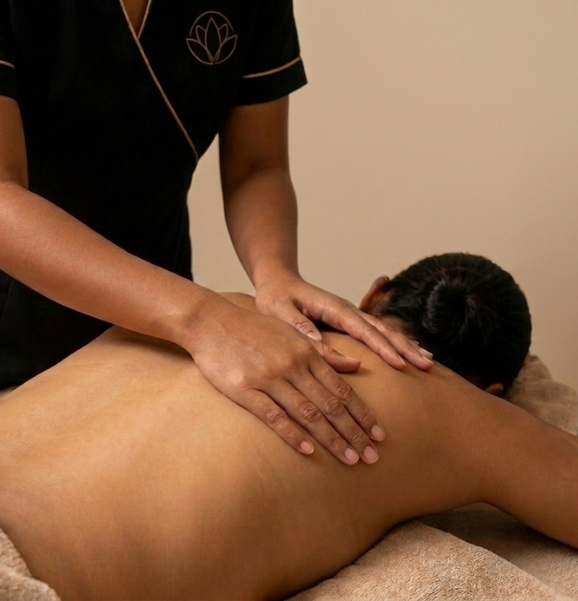
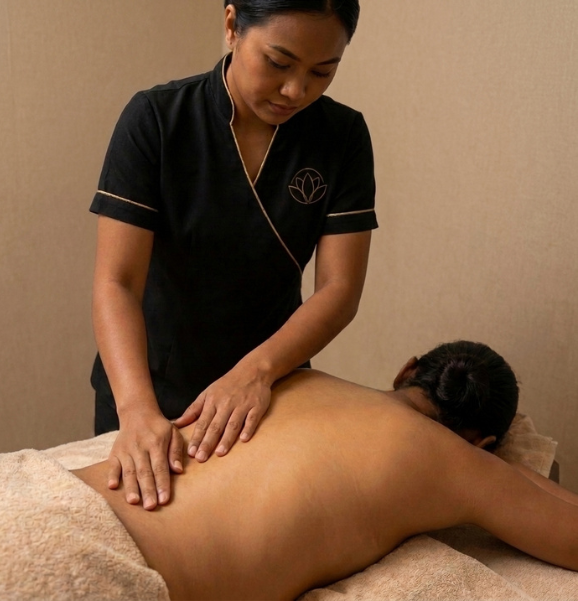
update

diff --git a/public/css/style.css b/public/css/style.css
@@ -2145,6 +2145,41 @@ svg.icon[viewBox="0 0 25 26"] > *,
   background: url(../images/shape/section-shape-bottom.png) no-repeat center bottom;
 }
 
+/* The torn-paper artwork occupies roughly 40px of the section's apparent
+   whitespace. Preserve each section's intended spacing rhythm on desktop by
+   adding that visual safe area to decorated panels. */
+@media (min-width: 768px) {
+  .section__decoration-top.pt-100,
+  .section__decoration-top > .pt-100 {
+    padding-top: 140px !important;
+  }
+
+  .section__decoration-bottom.pb-100,
+  .section__decoration-bottom > .pb-100 {
+    padding-bottom: 140px !important;
+  }
+
+  .section__decoration-top.pt-130,
+  .section__decoration-top > .pt-130 {
+    padding-top: 170px !important;
+  }
+
+  .section__decoration-bottom.pb-130,
+  .section__decoration-bottom > .pb-130 {
+    padding-bottom: 170px !important;
+  }
+
+  .section__decoration-top.pt-170,
+  .section__decoration-top > .pt-170 {
+    padding-top: 210px !important;
+  }
+
+  .section__decoration-bottom.pb-170,
+  .section__decoration-bottom > .pb-170 {
+    padding-bottom: 210px !important;
+  }
+}
+
 @media (max-width: 767px) {
   /* The torn artwork is 74-76px tall. Its visible edge sits near the middle
      of that image, so paper content needs a larger inset than an adjacent

diff --git a/public/sass/_base/_typography.scss b/public/sass/_base/_typography.scss
@@ -756,3 +756,20 @@ svg.icon[viewBox="0 0 25 26"],
 	}
 }
 // Section header area end here ***
+
+// The torn-paper artwork occupies roughly 40px of the section's apparent
+// whitespace. Preserve each section's intended spacing rhythm on desktop by
+// adding that visual safe area to the utilities used by decorated panels.
+@media (min-width: 768px) {
+	@each $space in 100, 130, 170 {
+		.section__decoration-top.pt-#{$space},
+		.section__decoration-top > .pt-#{$space} {
+			padding-top: #{$space + 40}px !important;
+		}
+
+		.section__decoration-bottom.pb-#{$space},
+		.section__decoration-bottom > .pb-#{$space} {
+			padding-bottom: #{$space + 40}px !important;
+		}
+	}
+}
